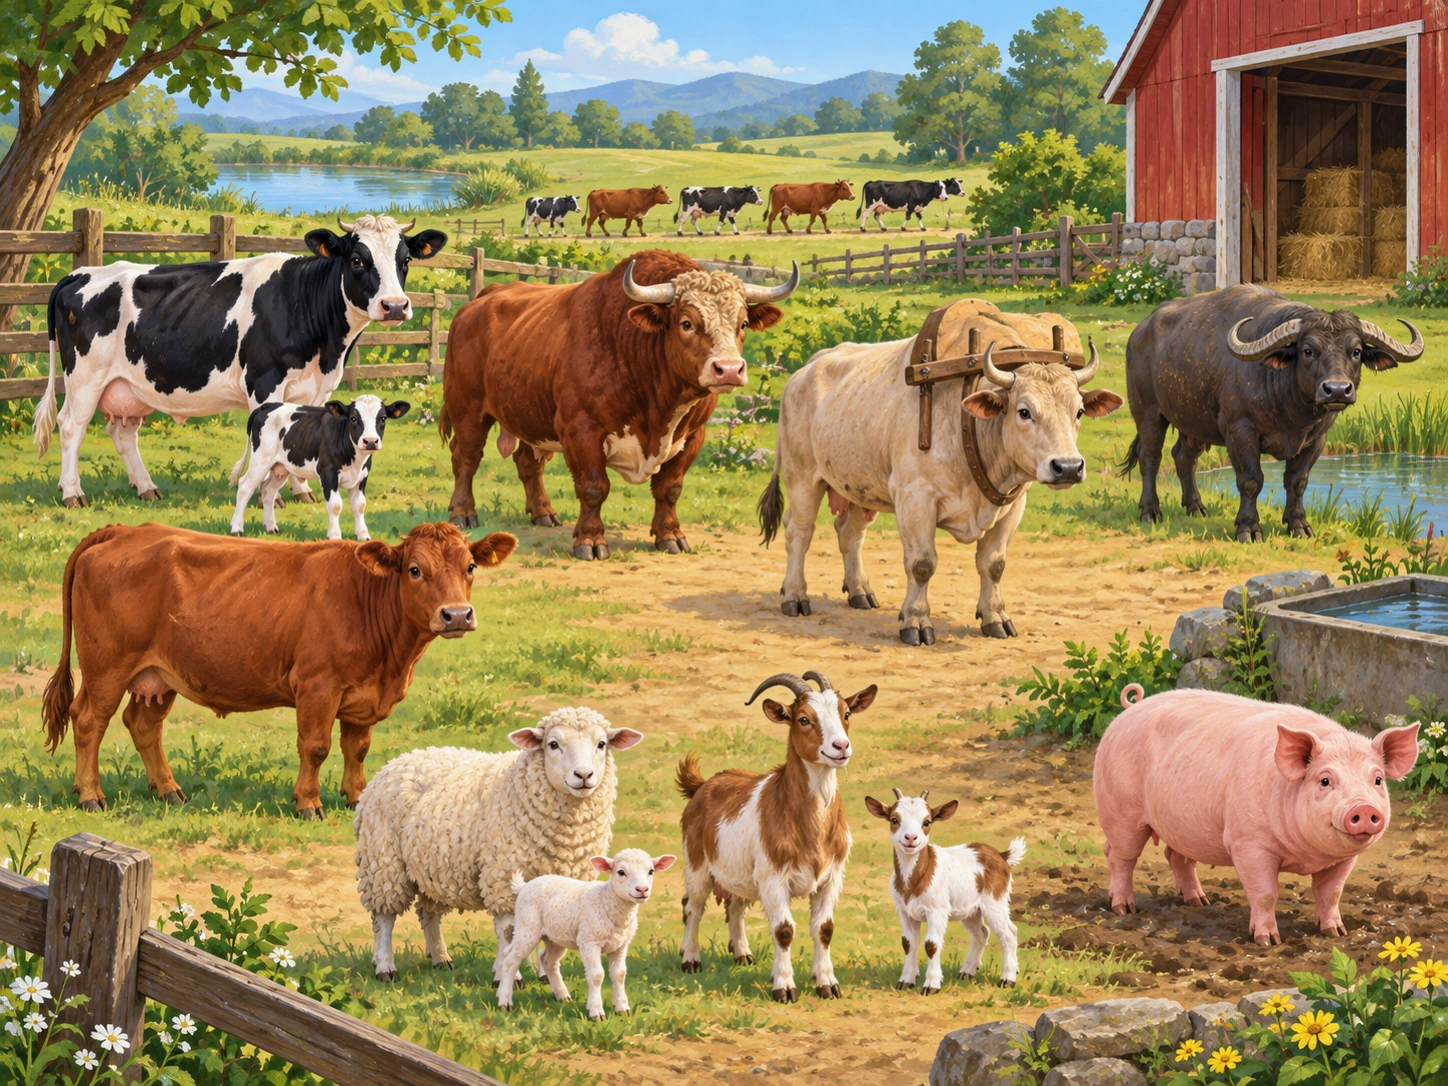
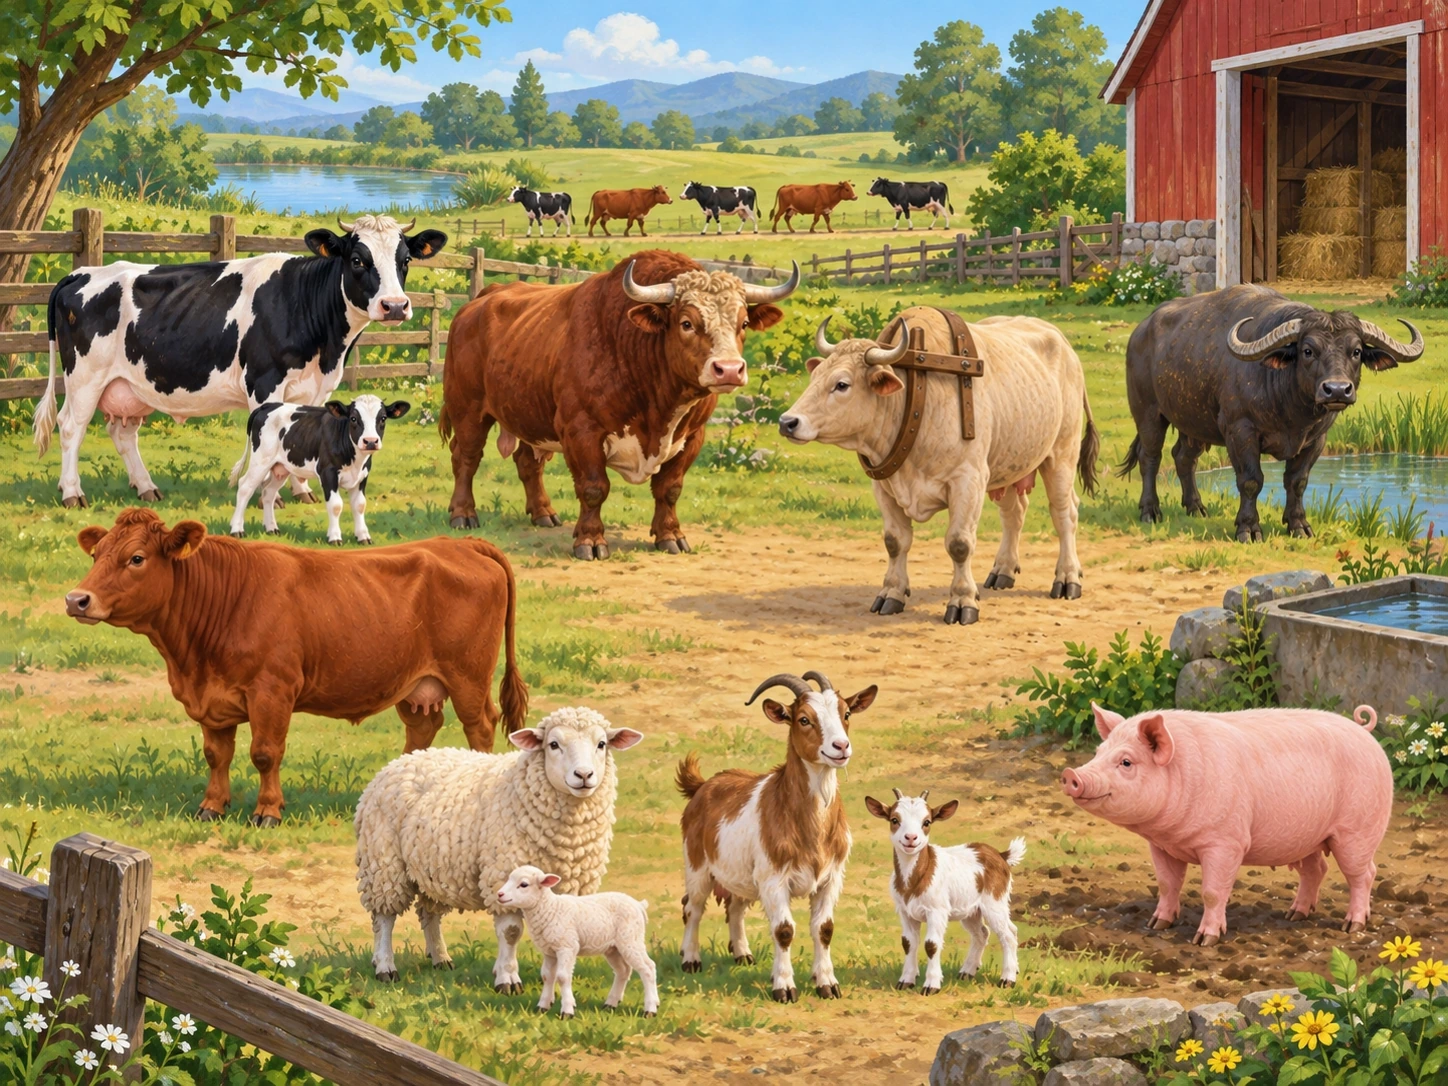
Test Hub: refresh test-apps/animal-farm/,  — staged only, no service worker; removed test-apps/animal-farm/assets/guides/,
Deployed by scripts/deploy-testhub.sh: source and destination checkouts verified
by scripts/assert-checkout.sh, staged tree proven worker-free, scope audited to
test-apps/ only. Production untouched.

diff --git a/test-apps/animal-farm/index.html b/test-apps/animal-farm/index.html
@@ -20,8 +20,7 @@ html,body{touch-action:manipulation}
 
 /* One unit tied to the stage, so every label scales with the picture instead of with
    the window. The stage width is a known expression, so this needs no container query. */
-:root{--sw:min(100vw,133.333vh);--fs:calc(var(--sw)*0.0175);--guide-w:16.229%;
-  --gfade:60ms}
+:root{--sw:min(100vw,133.333vh);--fs:calc(var(--sw)*0.0175)}
 
 .stage{position:relative;width:var(--sw);aspect-ratio:4/3;overflow:hidden;
   background:#172018 url("assets/page.webp") center/100% 100% no-repeat}
@@ -41,42 +40,6 @@ html,body{touch-action:manipulation}
 .patch.on{opacity:1}
 .patch.fading{transition:opacity .45s ease-out}
 
-/* The two guides. Three frames of the same pair; pressing them swaps the frame.
-
-   Decision 21 fixes a guide at 8% of the stage and says to ship it as one variable; the
-   owner's frames hold both children in one picture, so --guide-w is the pair and
-   tools/build-guides.py scales it so each CHILD lands at 8% - measured, not assumed.
-
-   They are three independent renders, not one drawing with a part changed, so what swaps
-   is a pose and an expression rather than a blink; decision 21 allows exactly that for a
-   guide, and warns against it for animals. At this size the faces are ~20px, so it is the
-   arms and the laugh that read.
-
-   Where they stand is room.json's `guides.at`, and tools/room-guides.py asserts they are
-   clear of every animal. The corner is the same in every room on purpose: children who stand
-   in the same place on every page are two guides, and children who move are a surprise.
-
-   Decision 21 says a guide is tappable, and until now these were scenery. The press target
-   is the pair's own rectangle, trimmed clear of any tap square it clips, and it is the one
-   on the page that answers with a picture instead of a voice. */
-.guides{position:absolute;left:83.080%;top:2.762%;width:16.229%;z-index:3;
-  height:auto;pointer-events:none;opacity:0;transition:opacity var(--gfade) linear;
-  transform-origin:50% 100%;filter:drop-shadow(0 6px 10px #0006)}
-.guides.on{opacity:1}
-.gtap{position:absolute;z-index:6;margin:0;padding:0;border:0;background:transparent;
-  cursor:pointer;border-radius:14px;-webkit-appearance:none}
-.gtap:focus-visible{outline:3px solid #ffe9a3;outline-offset:2px}
-/* The bounce that marks the press. It is applied to all three frames at once, not to the
-   one becoming visible, or a frame swap mid-animation would cut it short. It exists because
-   the owner could not see a press register at all: at 8% of the stage, in the corner of a
-   busy page, the change of expression needs something that says "look here" at the moment
-   the finger lands. */
-@keyframes guidehop{0%{transform:scale(1) translateY(0)}
-  35%{transform:scale(1.075) translateY(-3.2%)}
-  70%{transform:scale(0.995) translateY(0.4%)}
-  100%{transform:scale(1) translateY(0)}}
-.guides.hop{animation:guidehop .46s cubic-bezier(.3,1.5,.5,1)}
-
 /* the finger target: a marker placed ON the animal, nothing to do with the video rect.
    Almost every one is the same 140x140 page px square, because it is a marker and not a
    description - a target sized to each animal's bounding box lets a big animal swallow a
@@ -95,7 +58,7 @@ html,body{touch-action:manipulation}
 /* The name box. The button is 44 CSS px tall for the finger; the pill inside it is 25,
    because the rule here is to shrink the mark and never the tap target. Placed by
    tools/room-names.py, which proves each one clears every tap target, every other box,
-   the guides and the sound button. */
+   and the sound button. */
 .name{position:absolute;z-index:6;display:grid;place-items:center;margin:0;padding:0;
   border:0;background:transparent;cursor:pointer;-webkit-appearance:none;font:inherit}
 .name>span{display:block;padding:.28em .7em;border:2px solid #2d4a1c;border-radius:999px;
@@ -182,7 +145,7 @@ html,body{touch-action:manipulation}
 .t-beef-cattle{left:8.978%;top:53.407%;width:9.669%;height:12.891%}
 .t-buffalo{left:86.326%;top:29.466%;width:9.669%;height:12.891%}
 .t-sheep{left:29.696%;top:63.536%;width:9.669%;height:12.891%}
-.t-lamb{left:40.055%;top:78.269%;width:9.669%;height:12.891%}
+.t-lamb{left:34.530%;top:78.269%;width:9.669%;height:12.891%}
 .t-goat{left:51.105%;top:63.536%;width:9.669%;height:12.891%}
 .t-kid{left:60.773%;top:71.823%;width:9.669%;height:12.891%}
 .t-pig{left:85.290%;top:65.378%;width:9.669%;height:12.891%}
@@ -214,10 +177,6 @@ body.debug .name{outline:2px solid #35c8ff}
 
 <div class="stage" id="stage">
 
-  <img class="guides gf0" src="assets/guides/pair-0.webp" alt="" data-first="1">
-  <img class="guides gf1" src="assets/guides/pair-1.webp" alt="">
-  <img class="guides gf2" src="assets/guides/pair-2.webp" alt="">
-  <button class="gtap" style="left:83.080%;top:2.762%;width:16.229%;height:15.470%" aria-label="The two children - press them"></button>
   <button class="tap t-cow" data-a="cow" aria-label="Hear the name cow"></button>
   <button class="tap t-bull" data-a="bull" aria-label="Hear the name bull"></button>
   <button class="tap t-ox" data-a="ox" aria-label="Hear the name ox"></button>
@@ -473,46 +432,6 @@ addEventListener('keydown', e => {
   if (e.key === 'd') document.body.classList.toggle('debug');
   if (e.key === 'Escape' && openFor) closeSheet();
 });
-
-/* The guides play a short animation when a child presses them - the owner's call, after
-   a timed cycle and then a one-frame-per-press swap.
-
-   The timing is the point. The in-between frame is held for HALF as long as the others
-   (210ms against 420ms), which is what makes the sequence read as a blink and a laugh
-   rather than as three pictures shown in turn: real eyes pass through half-closed quickly
-   and dwell at the ends. It runs out and back - rest, mid, peak, mid, rest - so the
-   children always finish where they started, the same "play once and return to rest" the
-   animal patches follow.
-
-   All of it comes from assets/guides/frames.json, so the timing is data: a genuinely
-   half-lidded frame could be added as another `mid` with no change here.
-
-   A re-press restarts cleanly rather than stacking timers. */
-const GUIDE_SEQ  = [{"frame": 1, "ms": 320}, {"frame": 2, "ms": 640}, {"frame": 1, "ms": 320}];
-const GUIDE_IDLE = 0;
-const guideFrames = [...document.querySelectorAll('.guides')];
-let guideTimer = null;
-
-if (guideFrames.length) {
-  const show = i => guideFrames.forEach((g, n) => g.classList.toggle('on', n === i));
-  show(GUIDE_IDLE);
-  const play = () => {
-    clearTimeout(guideTimer);
-    // restart the bounce on every press, on all three frames at once
-    guideFrames.forEach(g => g.classList.remove('hop'));
-    void guideFrames[0].offsetWidth;
-    guideFrames.forEach(g => g.classList.add('hop'));
-    let step = 0;
-    const next = () => {
-      if (step >= GUIDE_SEQ.length) { show(GUIDE_IDLE); guideTimer = null; return; }
-      const s = GUIDE_SEQ[step++];
-      show(s.frame);
-      guideTimer = setTimeout(next, s.ms);
-    };
-    next();
-  };
-  document.querySelector('.gtap').addEventListener('click', play);
-}
 
 // warm the clips one at a time once the page has settled, so a child's first
 // tap on any animal plays at once instead of waiting on a download
